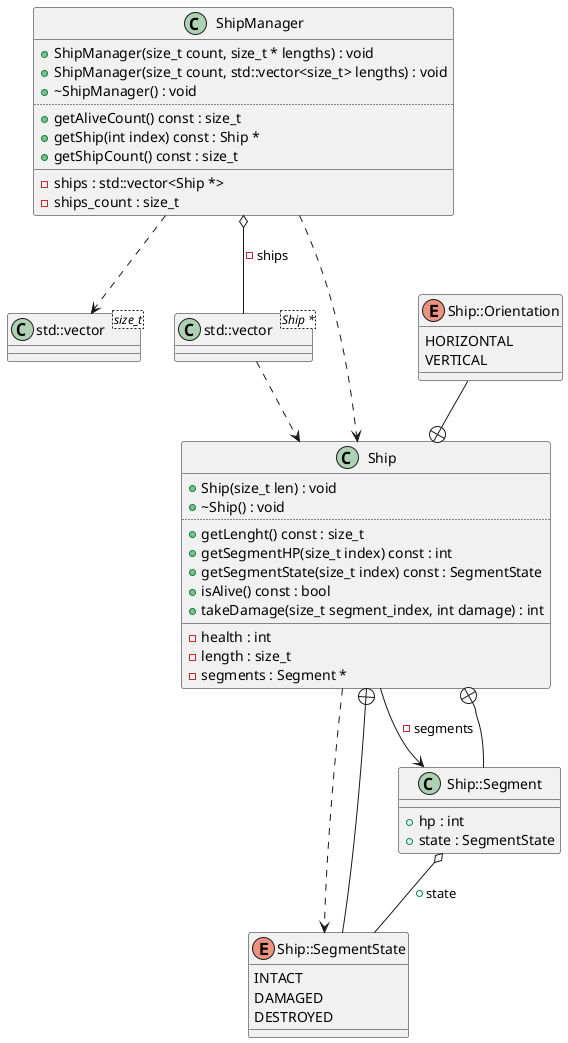
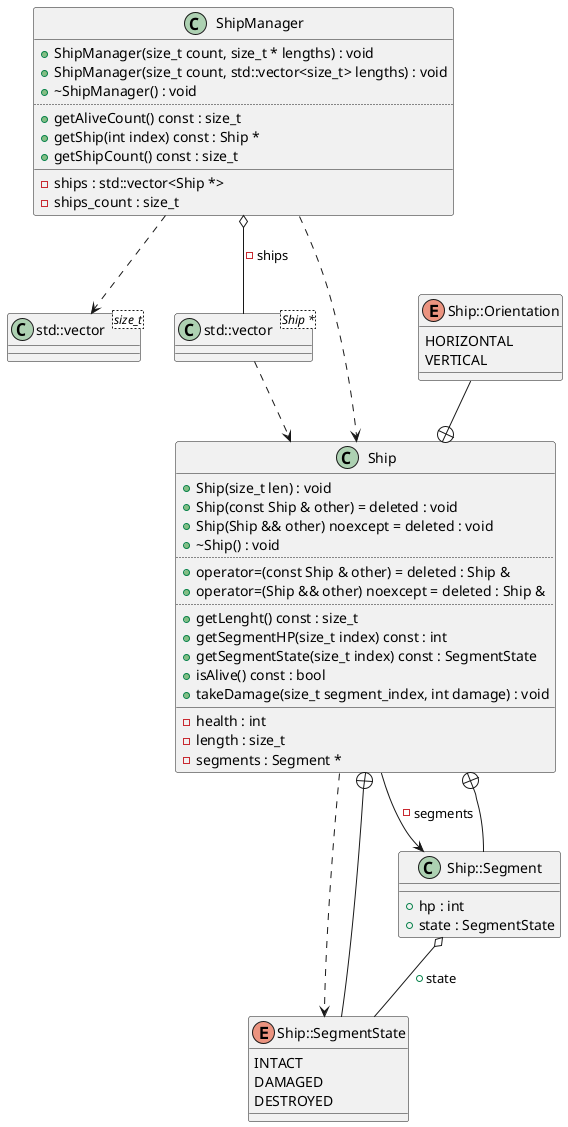
Refactor

diff --git a/src/modules/ShipField.cpp b/src/modules/ShipField.cpp
@@ -87,32 +87,33 @@ ShipField &ShipField::operator=(ShipField &&other) noexcept {
     return *this;
 }
 
-bool ShipField::checkShipCollision(Ship *ship, size_t head_x, size_t head_y, Ship::Orientation orientation) const {
-    size_t ship_length = ship->getLenght();
+bool ShipField::checkShipCollision(Ship *ship, int head_x, int head_y, Ship::Orientation orientation) const {
+    const int ship_length = ship->getLenght();
+
     if (orientation == Ship::HORIZONTAL) {
-        if (head_x + ship_length > width) {
+        if (head_x + ship_length > static_cast<int>(width)) {
             return true;
         }
-        for (size_t i = head_x; i < head_x + ship_length + 2; i++) {
-            for (size_t j = head_y; j < head_y + 3; j++) {
-                if (i >= width + 1 || j >= height + 1 || i == 0 || j == 0) {
+        for (int i = head_x - 1; i < head_x + ship_length + 1; i++) {
+            for (int j = head_y - 1; j < head_y + 2; j++) {
+                if (i >= static_cast<int>(width) || j >= static_cast<int>(height) || i < 0 || j <= 0) {
                     continue;
                 }
-                if (field[j - 1][i - 1].is_ship == true) {
+                if (getIsShip(i, j)) {
                     return true;  // cant place ship
                 }
             }
         }
     } else {
-        if (head_y + ship_length > height) {
+        if (head_y + ship_length > static_cast<int>(height)) {
             return true;
         }
-        for (size_t i = head_x; i < head_x + 3; i++) {
-            for (size_t j = head_y; j < (head_y + ship_length) + 2; j++) {
-                if (i >= width + 1 || j >= height + 1 || i == 0 || j == 0) {
+        for (int i = head_x; i < head_x + 2; i++) {
+            for (int j = head_y; j < head_y + ship_length + 1; j++) {
+                if (i >= static_cast<int>(width) || j >= static_cast<int>(height) || i < 0 || j < 0) {
                     continue;
                 }
-                if (field[j - 1][i - 1].is_ship == true) {
+                if (getIsShip(i, j)) {
                     return true;  // cant place ship
                 }
             }
@@ -121,56 +122,54 @@ bool ShipField::checkShipCollision(Ship *ship, size_t head_x, size_t head_y, Shi
     return false;
 }
 
-void ShipField::exposeSurroundingShipCells(Ship *ship, size_t x, size_t y) {
+void ShipField::exposeSurroundingShipCells(Ship *ship, int x, int y) {
     Ship::Orientation orientation;
+    const int ship_length = ship->getLenght();
 
     // calculate orientation of the ship
-    if ((y != 0 && field[y - 1][x].is_ship == true) || ((y + 1 != height) && field[y + 1][x].is_ship == true)) {
+    if (getIsShip(x, y - 1) || getIsShip(x, y + 1)) {
         orientation = Ship::VERTICAL;
     } else {
         orientation = Ship::HORIZONTAL;
     }
 
     // calculate head of the ship
-    size_t head_x = x;
-    size_t head_y = y;
+    int head_x = x;
+    int head_y = y;
 
     if (orientation == Ship::HORIZONTAL) {
-        while (field[head_y][head_x].is_ship == true) {
+        while (getIsShip(head_x - 1, head_y)) {
             head_x--;
         }
-        head_x++;
     } else {
-        while (field[head_y][head_x].is_ship == true) {
+        while (getIsShip(head_x, head_y - 1)) {
             head_y--;
         }
-        head_y++;
     }
 
-    size_t ship_length = ship->getLenght();
     if (orientation == Ship::HORIZONTAL) {
-        for (size_t i = head_x; i < head_x + ship_length + 2; i++) {
-            for (size_t j = head_y; j < head_y + 3; j++) {
-                if (i >= width + 1 || j >= height + 1 || i == 0 || j == 0) {
+        for (int i = head_x - 1; i < head_x + ship_length + 1; i++) {
+            for (int j = head_y - 1; j < head_y + 2; j++) {
+                if (i >= static_cast<int>(width) || j >= static_cast<int>(height) || i < 0 || j < 0) {
                     continue;
                 }
-                if (field[j - 1][i - 1].is_ship == true) {
+                if (getIsShip(i, j)) {
                     continue;
                 } else {
-                    field[j - 1][i - 1].state = ShipField::CellVisibilityState::BLANK;
+                    field[j][i].state = ShipField::CellVisibilityState::BLANK;
                 }
             }
         }
     } else {
-        for (size_t i = head_x; i < head_x + 3; i++) {
-            for (size_t j = head_y; j < (head_y + ship_length) + 2; j++) {
-                if (i >= width + 1 || j >= height + 1 || i == 0 || j == 0) {
+        for (int i = head_x - 1; i < head_x + 2; i++) {
+            for (int j = head_y - 1; j < head_y + ship_length + 1; j++) {
+                if (i >= static_cast<int>(width) || j >= static_cast<int>(height) || i < 0 || j < 0) {
                     continue;
                 }
-                if (field[j - 1][i - 1].is_ship == true) {
+                if (getIsShip(i, j)) {
                     continue;
                 } else {
-                    field[j - 1][i - 1].state = ShipField::CellVisibilityState::BLANK;
+                    field[j][i].state = ShipField::CellVisibilityState::BLANK;
                 }
             }
         }
@@ -178,29 +177,29 @@ void ShipField::exposeSurroundingShipCells(Ship *ship, size_t x, size_t y) {
 }
 
 void ShipField::placeShip(Ship *ship, int x, int y, Ship::Orientation orientation) {
-    size_t ship_length = ship->getLenght();
+    const size_t ship_length = ship->getLenght();
     if (x < 0 || y < 0) {  // 0 0 is the bottom left corner
         throw std::invalid_argument("Coordinates must be non-negative");
     }
-    size_t x_size = static_cast<size_t>(x);
-    size_t y_size = static_cast<size_t>(y);
+
+    const size_t x_size = static_cast<size_t>(x);
+    const size_t y_size = static_cast<size_t>(y);
+
     if (y_size >= height || x_size >= width) {
         throw std::invalid_argument("Coordinates are out of field bounds");
     }
+
+    if (checkShipCollision(ship, x_size, y_size, orientation)) {
+        throw std::invalid_argument("Ship collides with another ship or borders");
+    }
+
     if (orientation == Ship::HORIZONTAL) {  // horizontal placement of the ship on the field
-        if (checkShipCollision(ship, x_size, y_size, orientation)) {
-            throw std::invalid_argument("Ship collides with another ship or borders");
-        }
         for (size_t i = x_size; i < x_size + ship_length; i++) {
             field[y_size][i].ship = ship;
             field[y_size][i].ship_segment_index = i - x_size;
             field[y_size][i].is_ship = true;
         }
     } else {  // vertical placement of the ship on the field
-        if (checkShipCollision(ship, x_size, y_size, orientation)) {
-            throw std::invalid_argument("Ship collides with another ship or borders");
-        }
-
         for (size_t i = y_size; i < y_size + ship_length; i++) {
             field[i][x_size].ship = ship;
             field[i][x_size].ship_segment_index = i - y_size;
@@ -209,40 +208,34 @@ void ShipField::placeShip(Ship *ship, int x, int y, Ship::Orientation orientatio
     }
 }
 
-bool ShipField::getIsShip(int x, int y) const {
+void ShipField::attackShip(int x, int y, int damage) {
     if (x < 0 || y < 0) {
-        throw std::invalid_argument("Coordinates must be non-negative");
+        return;
     }
-    if (static_cast<size_t>(x) >= width || static_cast<size_t>(y) >= height) {
-        throw std::invalid_argument("Coordinates are out of field bounds");
-    }
-    return field[y][x].is_ship;
-}
+    const size_t x_size = static_cast<size_t>(x);
+    const size_t y_size = static_cast<size_t>(y);
 
-bool ShipField::attackShip(int x, int y) {
-    if (x < 0 || y < 0) {
-        return false;
-    }
-    size_t x_size = static_cast<size_t>(x);
-    size_t y_size = static_cast<size_t>(y);
     if (x_size >= width || y_size >= height) {
-        return false;
+        return;
     }
 
-    if (field[y_size][x_size].is_ship == false) {
+    if (getIsShip(x_size, y_size) == false) {
         field[y_size][x_size].state = ShipField::CellVisibilityState::BLANK;
-        return false;
+        return;
     }
+
     Ship *current = field[y_size][x_size].ship;
-    if (current->getSegmentHP(field[y_size][x_size].ship_segment_index) <= 0) {
-        return false;
+    const size_t ship_segment_index = field[y_size][x_size].ship_segment_index;
+    
+    if (current->getSegmentHP(ship_segment_index) <= 0) {
+        return;
     }
+
     field[y_size][x_size].state = ShipField::CellVisibilityState::SHIP;
-    current->takeDamage(field[y_size][x_size].ship_segment_index, 1);
+    current->takeDamage(ship_segment_index, damage);
     if (current->isAlive() == false) {
         exposeSurroundingShipCells(current, x_size, y_size);
     }
-    return true;
 }
 
 size_t ShipField::getWidth() const {
@@ -251,6 +244,16 @@ size_t ShipField::getWidth() const {
 
 size_t ShipField::getHeight() const {
     return height;
+}
+
+bool ShipField::getIsShip(int x, int y) const {
+    if (x < 0 || y < 0) {
+        return false;
+    }
+    if (static_cast<size_t>(x) >= width || static_cast<size_t>(y) >= height) {
+        return false;
+    }
+    return (field[y][x].is_ship);
 }
 
 void ShipField::clearField() {
@@ -278,7 +281,7 @@ int ShipField::getShipSegmentHP(int x, int y) const {
     if (static_cast<size_t>(x) >= width || static_cast<size_t>(y) >= height) {
         throw std::invalid_argument("Coordinates are out of field bounds");
     }
-    if (field[y][x].is_ship == false) {
+    if (getIsShip(x, y) == false) {
         throw std::logic_error("No ship at the given coordinates");
     }
     return field[y][x].ship->getSegmentHP(field[y][x].ship_segment_index);
@@ -291,7 +294,7 @@ Ship::SegmentState ShipField::getShipSegmentState(int x, int y) const {
     if (static_cast<size_t>(x) >= width || static_cast<size_t>(y) >= height) {
         throw std::invalid_argument("Coordinates are out of field bounds");
     }
-    if (field[y][x].is_ship == false) {
+    if (getIsShip(x, y) == false) {
         throw std::logic_error("No ship at the given coordinates");
     }
     return field[y][x].ship->getSegmentState(field[y][x].ship_segment_index);

diff --git a/src/modules/ShipField.hpp b/src/modules/ShipField.hpp
@@ -19,8 +19,8 @@ class ShipField {
     size_t width;
     size_t height;
     FieldElement** field;
-    bool checkShipCollision(Ship* ship, size_t x, size_t y, Ship::Orientation orientation) const;  // returns true if ship collides with another ship
-    void exposeSurroundingShipCells(Ship* ship, size_t x, size_t y);                               // exposes cells around ship
+    bool checkShipCollision(Ship* ship, int x, int y, Ship::Orientation orientation) const;  // returns true if ship collides with another ship
+    void exposeSurroundingShipCells(Ship* ship, int x, int y);                               // exposes cells around ship
 
    public:
     ShipField(int width, int height);
@@ -38,7 +38,7 @@ class ShipField {
     int getShipSegmentHP(int x, int y) const;                                 // returns hp of segment in ship
     Ship::SegmentState getShipSegmentState(int x, int y) const;               // returns state of segment in ship
     void placeShip(Ship* ship, int x, int y, Ship::Orientation orientation);  // places ship on field
-    bool attackShip(int x, int y);                                            // attacks ship on field
+    void attackShip(int x, int y, int damage = 1);                            // attacks ship on field
     void clearField();                                                        // clears field
 };
 

diff --git a/src/modules/Ship.hpp b/src/modules/Ship.hpp
@@ -20,13 +20,17 @@ class Ship {
 
    public:
     Ship(size_t len);
+    Ship(const Ship& other) = delete;
+    Ship(Ship&& other) noexcept = delete;
+    Ship& operator=(const Ship& other) = delete;
+    Ship& operator=(Ship&& other) noexcept = delete;
     ~Ship();
 
-    int takeDamage(size_t segment_index, int damage);  // returns current hp of segment
-    int getSegmentHP(size_t index) const;              // returns hp of segment by index
-    SegmentState getSegmentState(size_t index) const;  // returns state of segment by index
-    size_t getLenght() const;                          // returns length of ship
-    bool isAlive() const;                              // returns true if ship is alive
+    void takeDamage(size_t segment_index, int damage);  // returns current hp of segment
+    int getSegmentHP(size_t index) const;               // returns hp of segment by index
+    SegmentState getSegmentState(size_t index) const;   // returns state of segment by index
+    size_t getLenght() const;                           // returns length of ship
+    bool isAlive() const;                               // returns true if ship is alive
 };
 
 #endif  // SHIP_HPP

diff --git a/src/modules/Ship.cpp b/src/modules/Ship.cpp
@@ -21,7 +21,7 @@ Ship::SegmentState Ship::getSegmentState(size_t index) const {
     return segments[index].state;
 }
 
-int Ship::takeDamage(size_t segment_index, int damage) {
+void Ship::takeDamage(size_t segment_index, int damage) {
     segments[segment_index].hp -= damage;
     if (segments[segment_index].hp <= 0) {
         health--;
@@ -29,7 +29,6 @@ int Ship::takeDamage(size_t segment_index, int damage) {
     } else {
         segments[segment_index].state = SegmentState::DAMAGED;
     }
-    return segments[segment_index].hp;
 }
 
 size_t Ship::getLenght() const {
